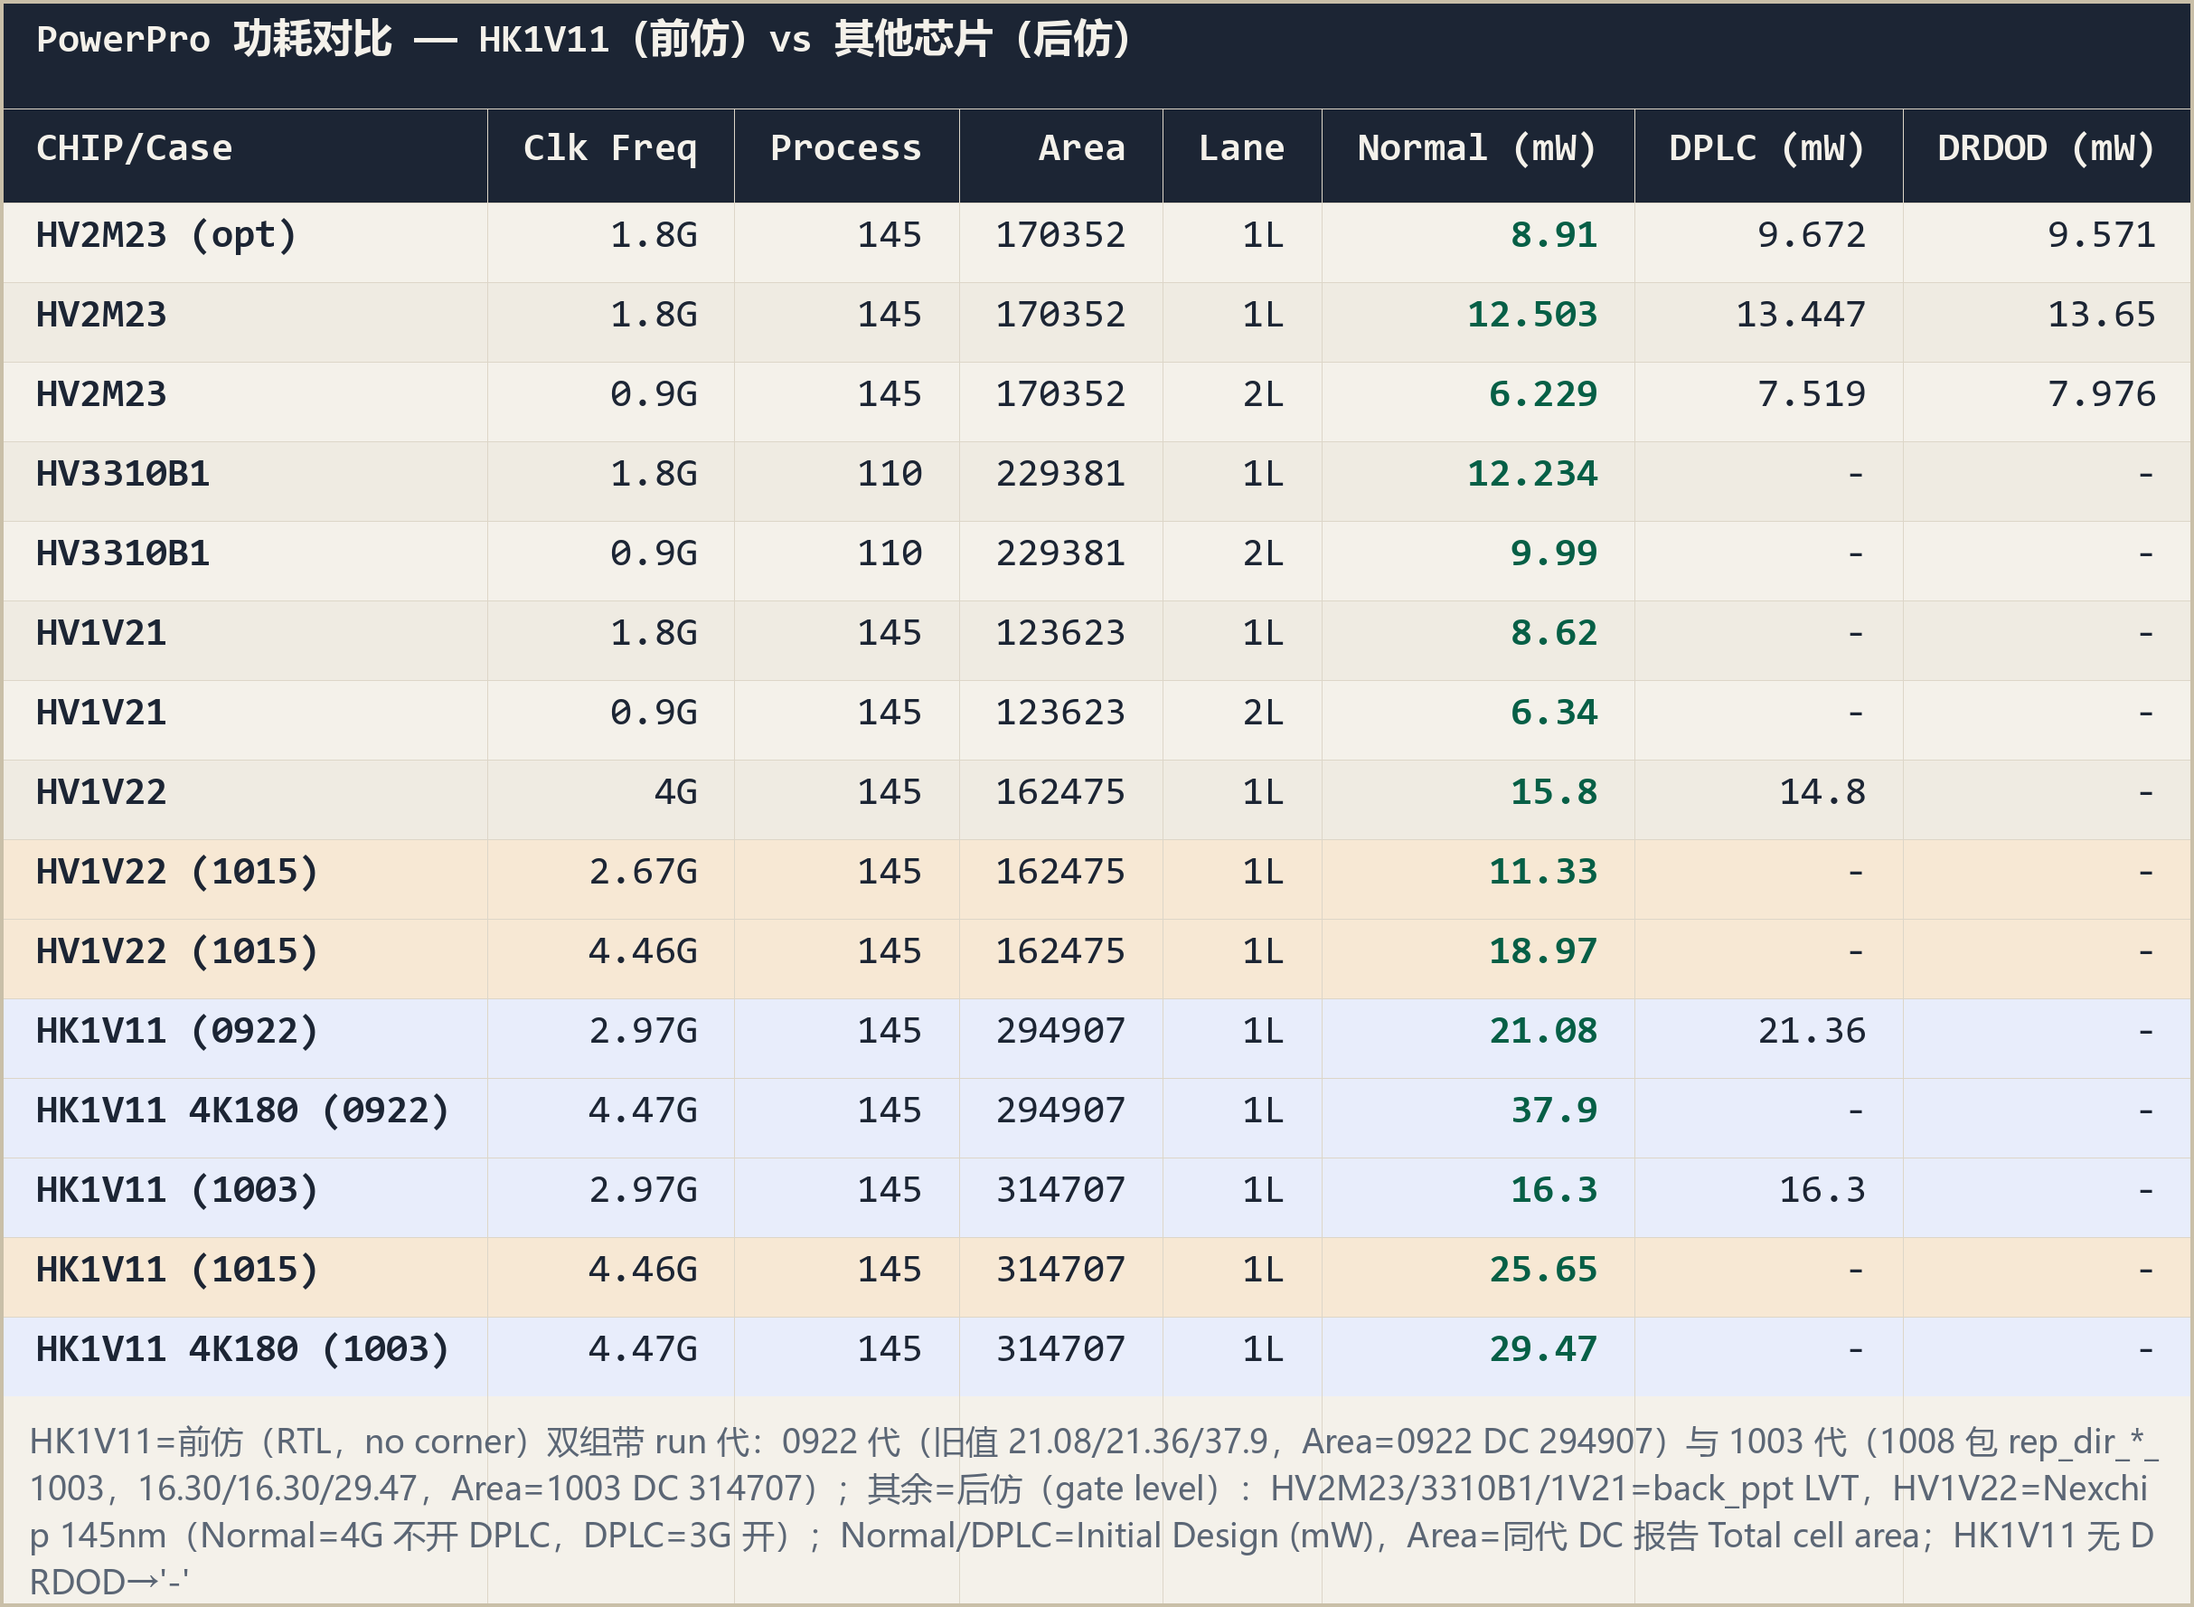
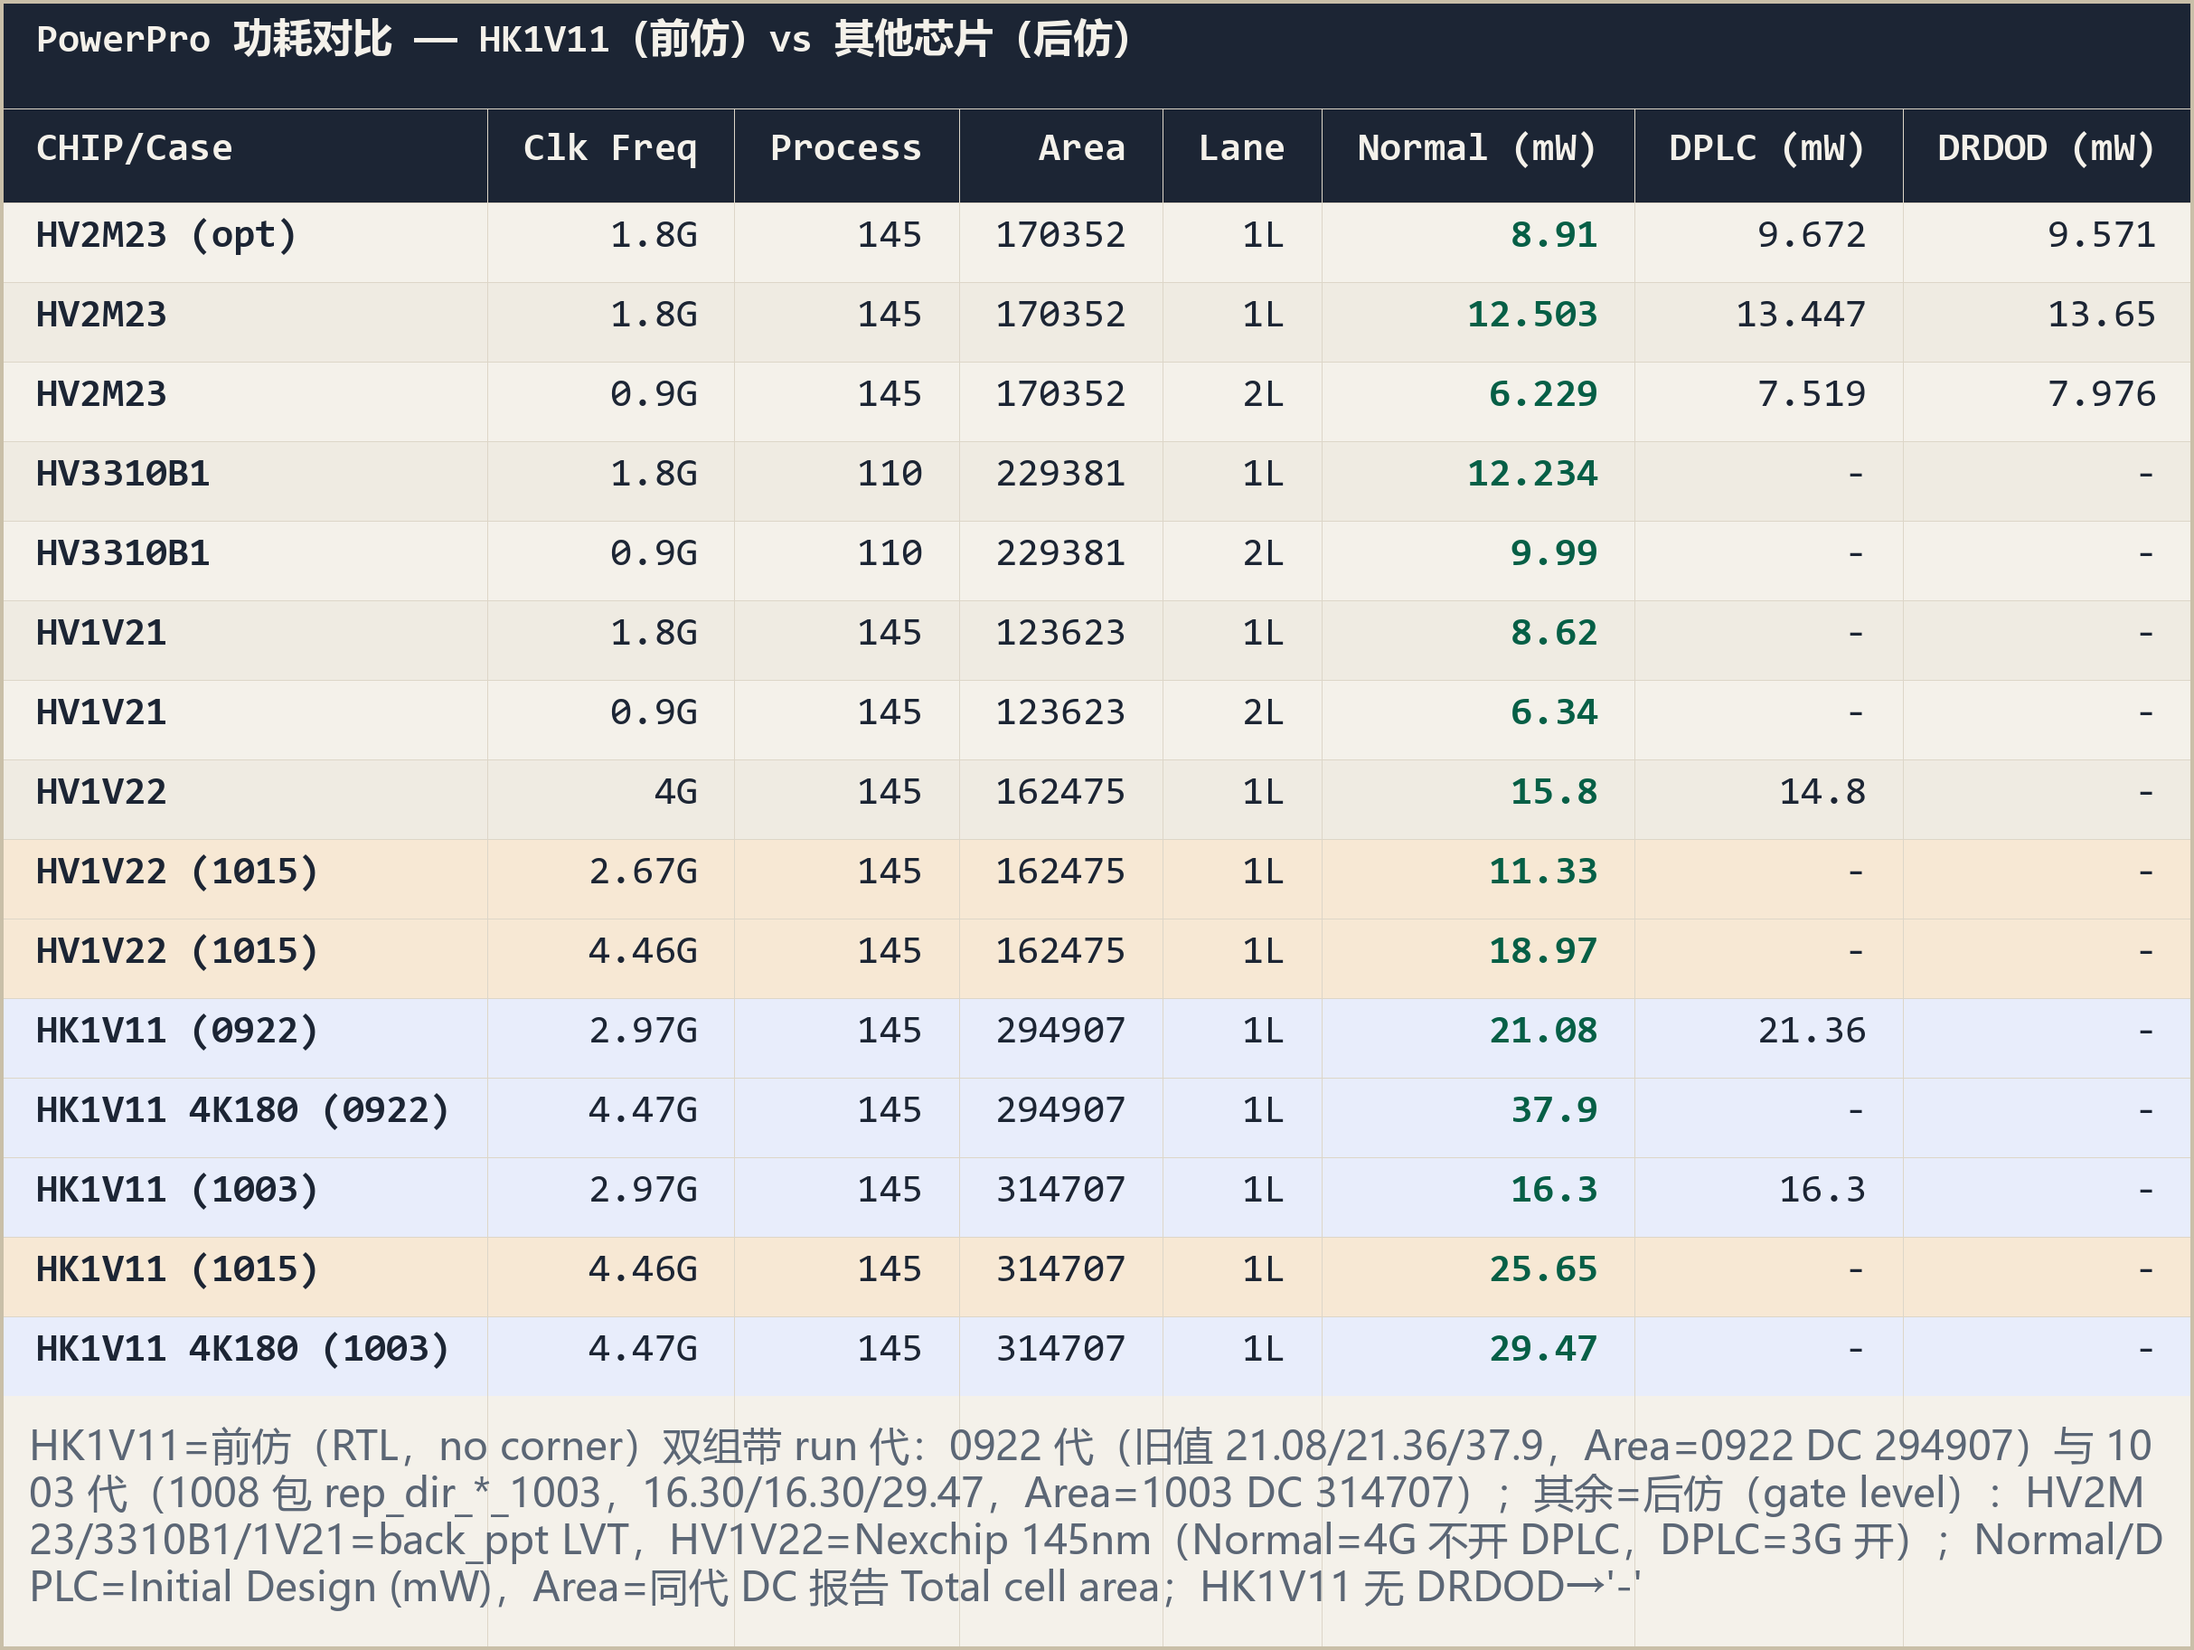
review t81/t80 polish: burger border to muted (3:1), table-image caption 9->11px regenerate

diff --git a/hk1v11-synthesis-postpt-practice/css/style.css b/hk1v11-synthesis-postpt-practice/css/style.css
@@ -324,7 +324,7 @@ h2, h3 { scroll-margin-top: 76px; }
   width: 38px; height: 34px;
   padding: 7px 9px;
   background: none;
-  border: 1px solid var(--line);
+  border: 1px solid var(--muted);
   border-radius: 6px;
   cursor: pointer;
   margin-left: auto;
@@ -932,4 +932,4 @@ hr { border: 0; border-top: 1px solid var(--line); margin: 40px 0; }
 .lb-overlay .lb-next { right: 20px; top: 50%; transform: translateY(-50%); }
 @media print { .lb-overlay { display: none !important; } }
 
-/* ymzhu 2026-10-21 12:08 */
+/* ymzhu 2026-10-21 12:24 */
